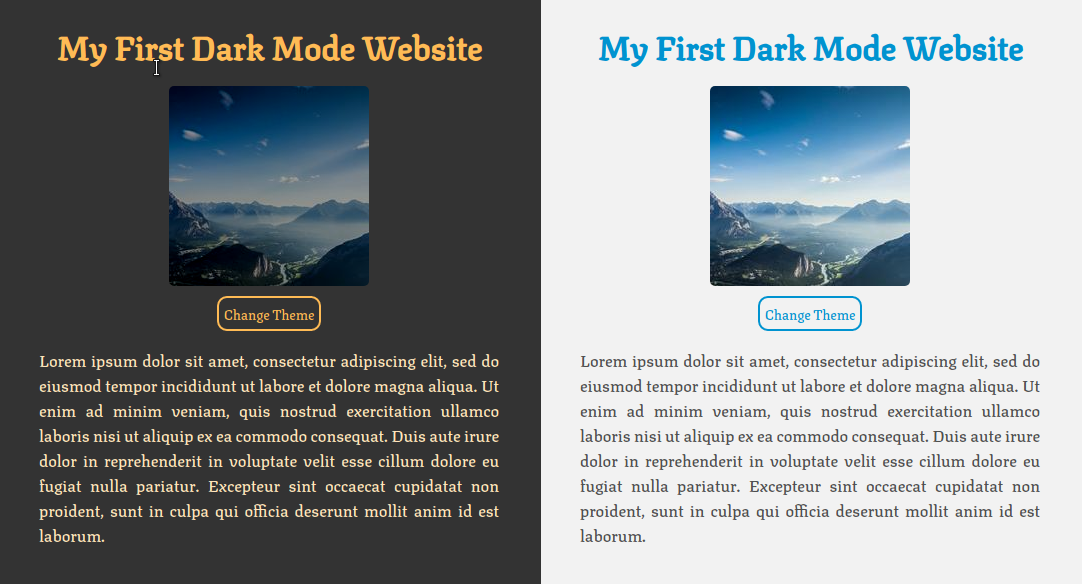
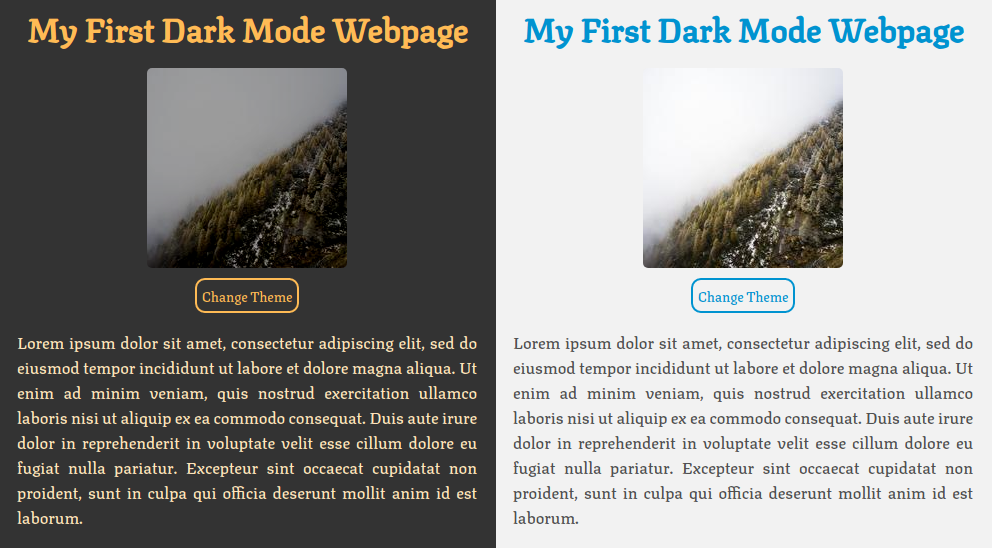
Cambios en la definición de lo desarrollado

diff --git a/index.html b/index.html
@@ -3,11 +3,11 @@
   <head>
     <meta charset="UTF-8" />
     <meta name="viewport" content="width=device-width, initial-scale=1.0" />
-    <title>My First Dark Mode Website</title>
+    <title>My First Dark Mode Webpage</title>
     <link rel="stylesheet" href="./assets/css/styles.css" />
   </head>
   <body>
-      <h1 class="title">My First Dark Mode Website</h1>
+      <h1 class="title">My First Dark Mode Webpage</h1>
       <div>
 
     <img class="image" src="https://picsum.photos/200" alt="Random pictures">
